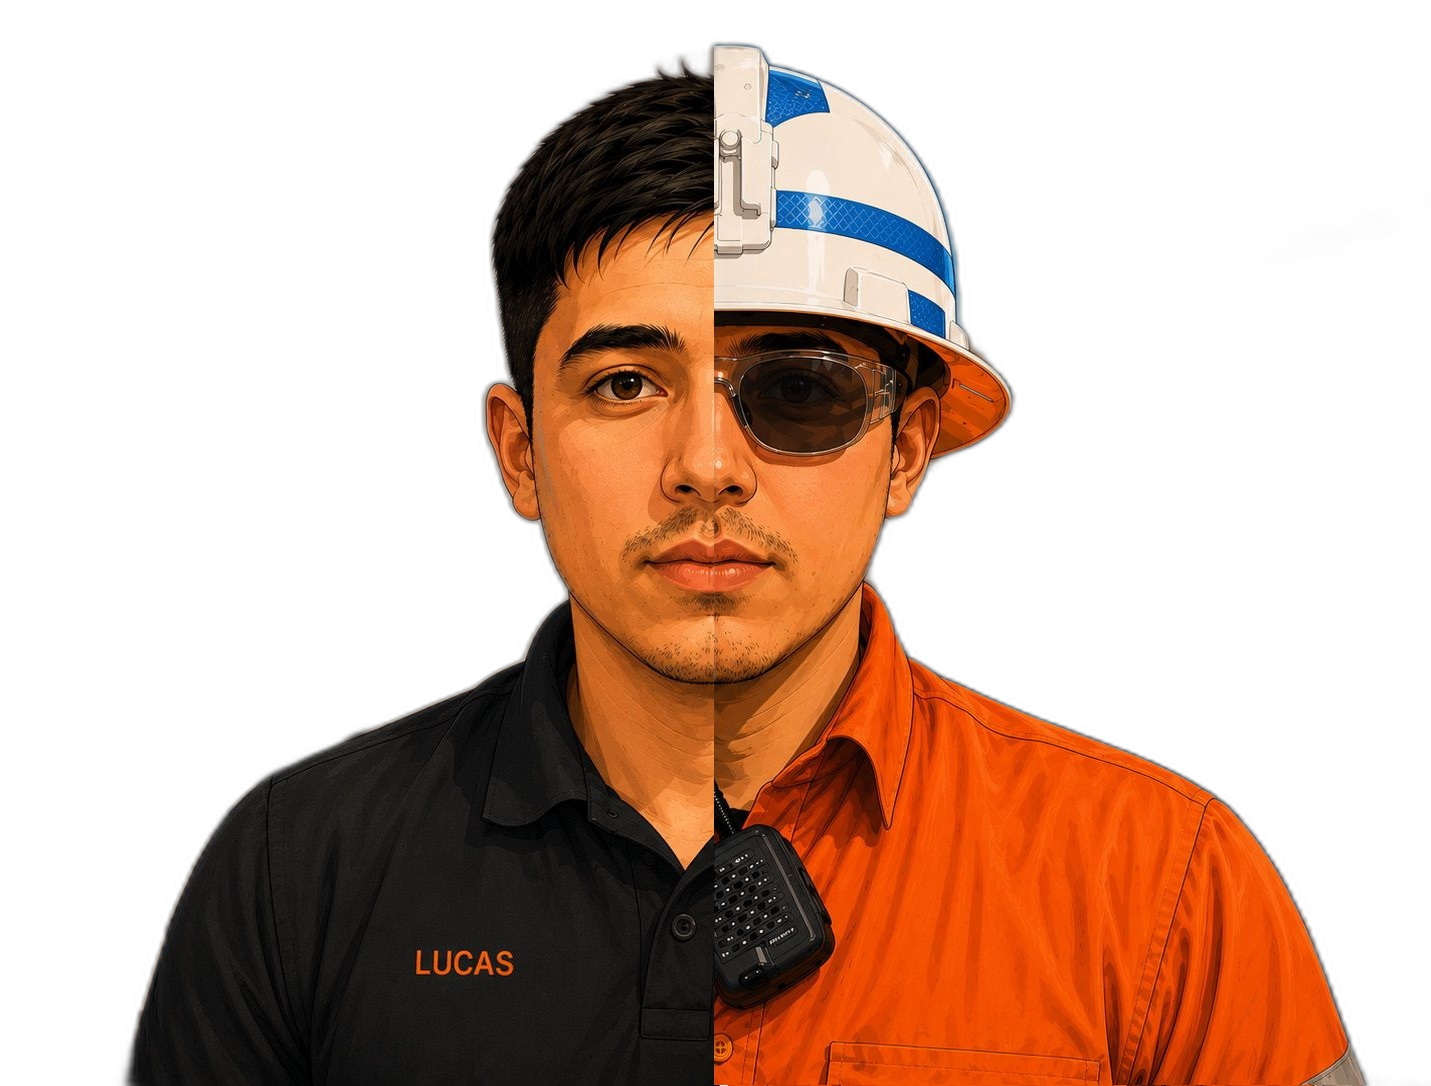
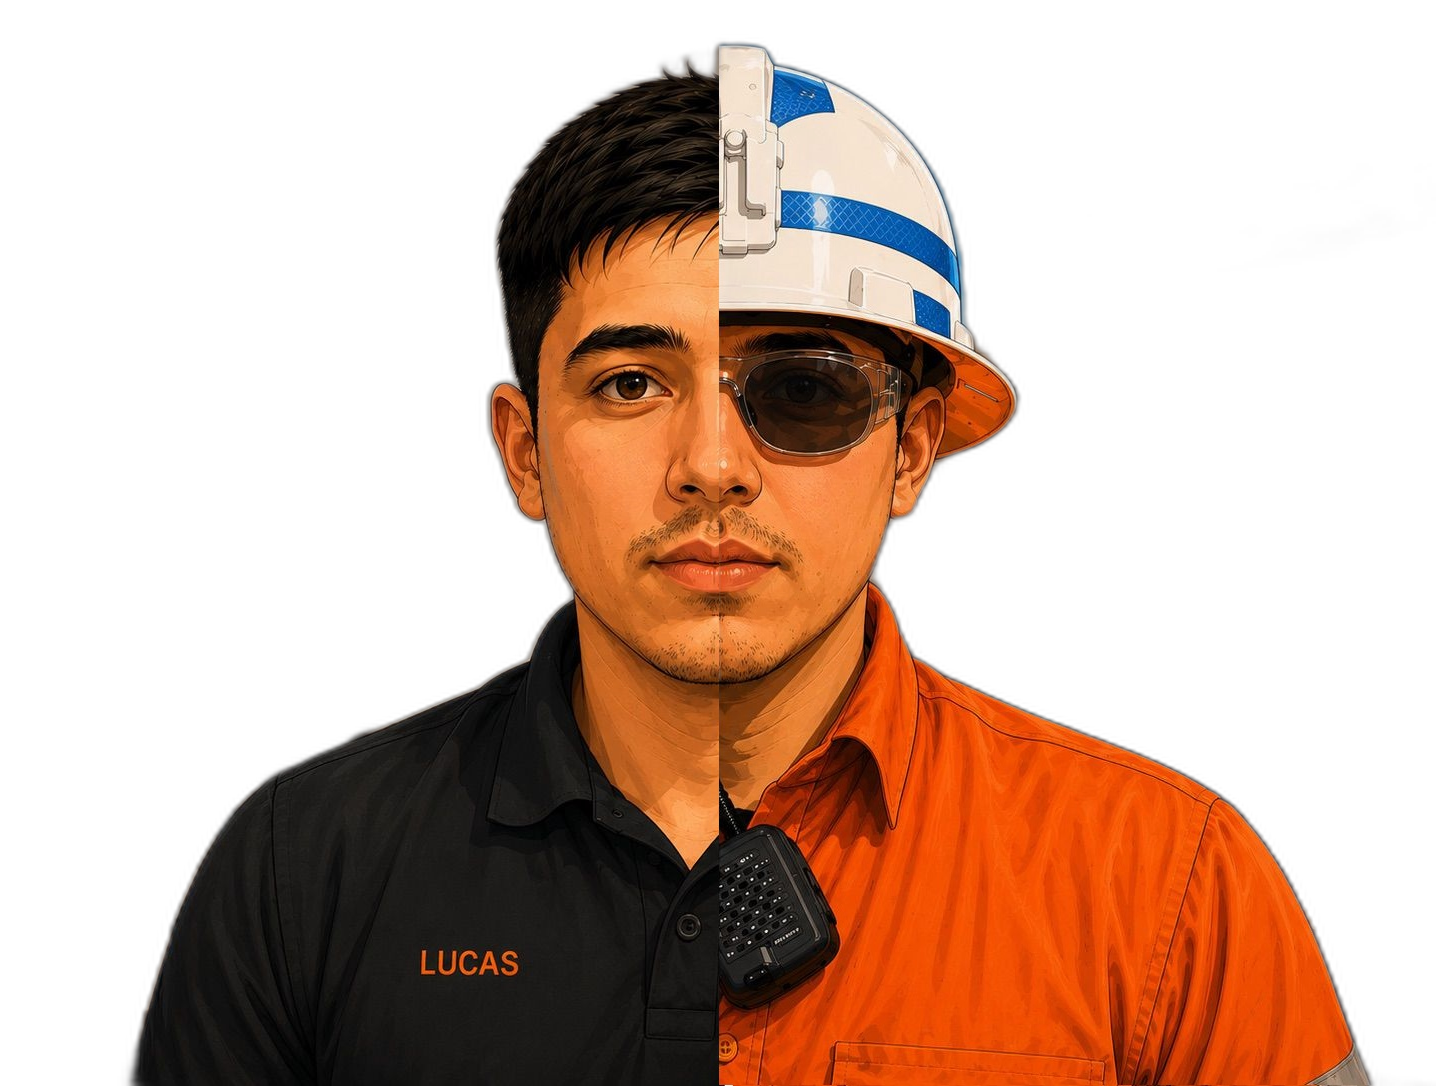
Tune split portrait centering and profile scrolling

diff --git a/app/globals.css b/app/globals.css
@@ -339,14 +339,15 @@ a {
 .continuous-portrait-track {
   position: absolute;
   top: 0;
-  left: 0;
-  width: 220vw;
+  left: 50%;
+  width: calc(100svh * 1.3223);
   height: 100%;
+  transform: translate3d(calc(-50% + var(--portrait-shift, 0px)), 0, 0);
   will-change: transform;
 }
 
 .continuous-portrait-image {
-  object-fit: cover;
+  object-fit: contain;
   object-position: center center;
 }
 
@@ -408,9 +409,13 @@ html[data-theme="dark"] .field-page {
   max-height: calc(100svh - 128px);
   overflow-y: auto;
   overflow-x: hidden;
-  scrollbar-width: thin;
+  scrollbar-width: none;
   position: relative;
   z-index: 3;
+}
+
+.split-panel-content::-webkit-scrollbar {
+  display: none;
 }
 
 .engineering-page .split-panel-content {
@@ -2873,5 +2878,4 @@ html[data-theme="dark"] .software-meter {
     transition-duration: 0.001ms !important;
   }
 }
-
 

diff --git a/components/portfolio-experience.tsx b/components/portfolio-experience.tsx
@@ -156,8 +156,9 @@ function Hero({
     if (!portrait) {
       return;
     }
-    const offset = track.clientWidth * 0.09;
-    portrait.style.transform = `translate3d(${-track.scrollLeft * 0.55 - offset}px, 0, 0)`;
+    const progress = track.scrollLeft / Math.max(track.clientWidth, 1);
+    const shift = (1 - progress) * track.clientWidth * 0.5;
+    portrait.style.setProperty("--portrait-shift", `${shift}px`);
   }
 
   useEffect(() => {